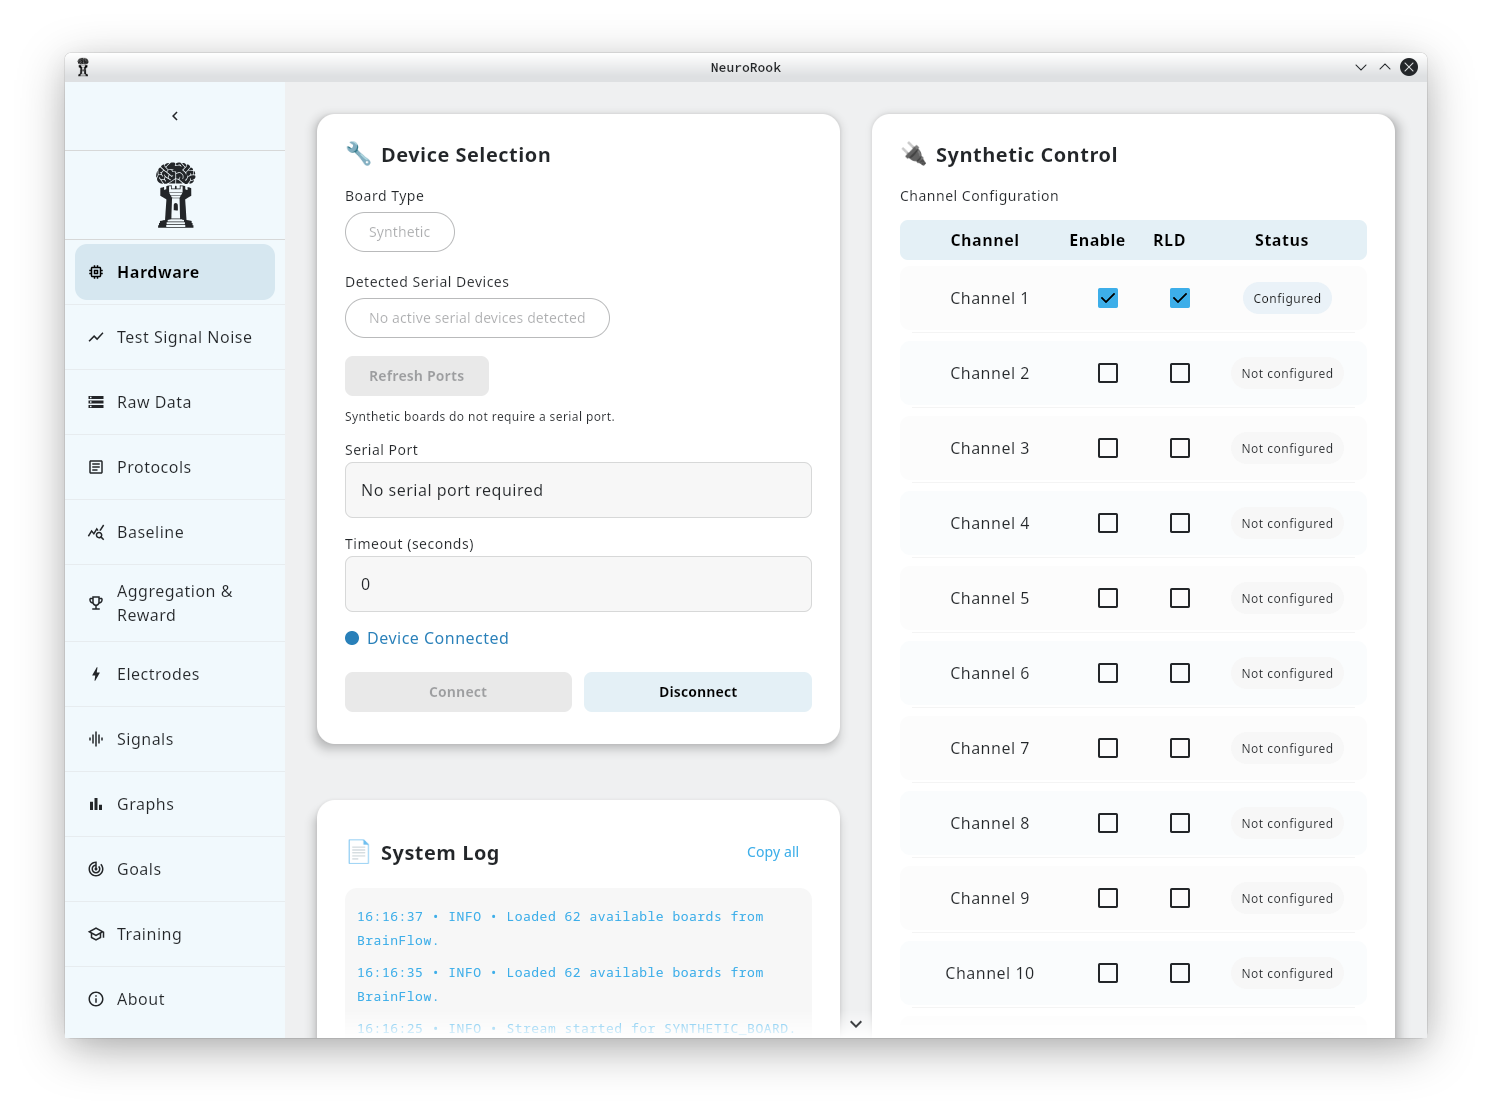
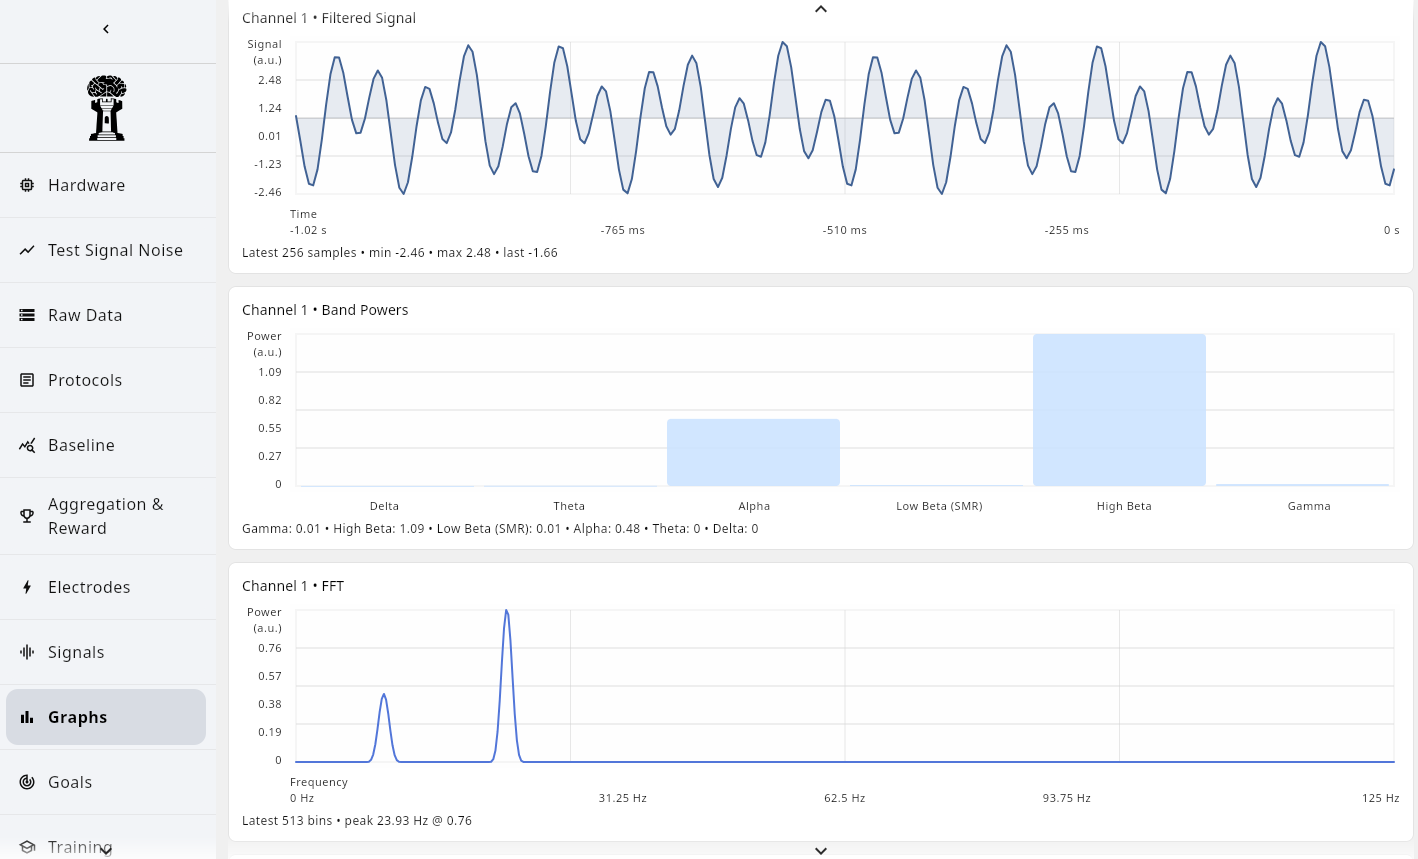
docs: refresh README for 0.6.0 desktop release line
Update the project overview to reflect the desktop-first focus and pair the README with the latest main window screenshot on the 0.6.0 branch.

diff --git a/README.md b/README.md
@@ -11,15 +11,20 @@
 
 ## Overview
 
-**NeuroRook** is a neurofeedback suite built on top of the [BrainFlow library](https://brainflow.org/). The project is in active development, with a primary focus on desktop (JVM) support and planned expansion to Android and iOS platforms. NeuroRook aims to provide a robust, extensible, and user-friendly environment for neurofeedback research and applications.
+**NeuroRook** is a desktop-first neurofeedback suite built on top of the [BrainFlow library](https://brainflow.org/). The project is in active development, with a primary focus on the JVM desktop experience and planned expansion to Android and iOS. NeuroRook aims to provide a robust, extensible, and user-friendly environment for neurofeedback research and biosignal applications.
 
 <p align="center">
   <img src="./documentation/main_window.png" width="900" alt="NeuroRook desktop main window screenshot">
 </p>
 
+<p align="center">
+  <em>Current desktop main window on the 0.6.0 line.</em>
+</p>
+
 ---
 
 ## Features
+- **Desktop-First Workflow**: Fast iteration on the JVM target while shared code continues to mature.
 - **Kotlin Multiplatform**: Shared business logic across JVM, Android, and iOS.
 - **BrainFlow Integration**: Leverages BrainFlow for hardware-agnostic EEG and biosignal acquisition.
 - **Modular Architecture**: Designed for extensibility and maintainability.
@@ -28,7 +33,7 @@
 ---
 
 ## Project Structure
-- [`composeApp/`](./composeApp/src): Shared codebase for Compose Multiplatform applications.
+- [`composeApp/`](./composeApp/src): Compose Multiplatform desktop app and shared UI entry points.
 - [`iosApp/`](./iosApp/iosApp): Entry point and UI for iOS applications (SwiftUI).
 - [`androidApp/`](./androidApp/src): Android application module (planned).
 - [`hardwareBackend/`](./hardwareBackend/src): Hardware abstraction and BrainFlow integration.
@@ -46,7 +51,7 @@
 ### Build Instructions
 
 #### Desktop (JVM)
-*Note: Desktop support is under active development.*
+*Note: The desktop app is the primary development target.*
 
 - **Build:**
   ```sh
